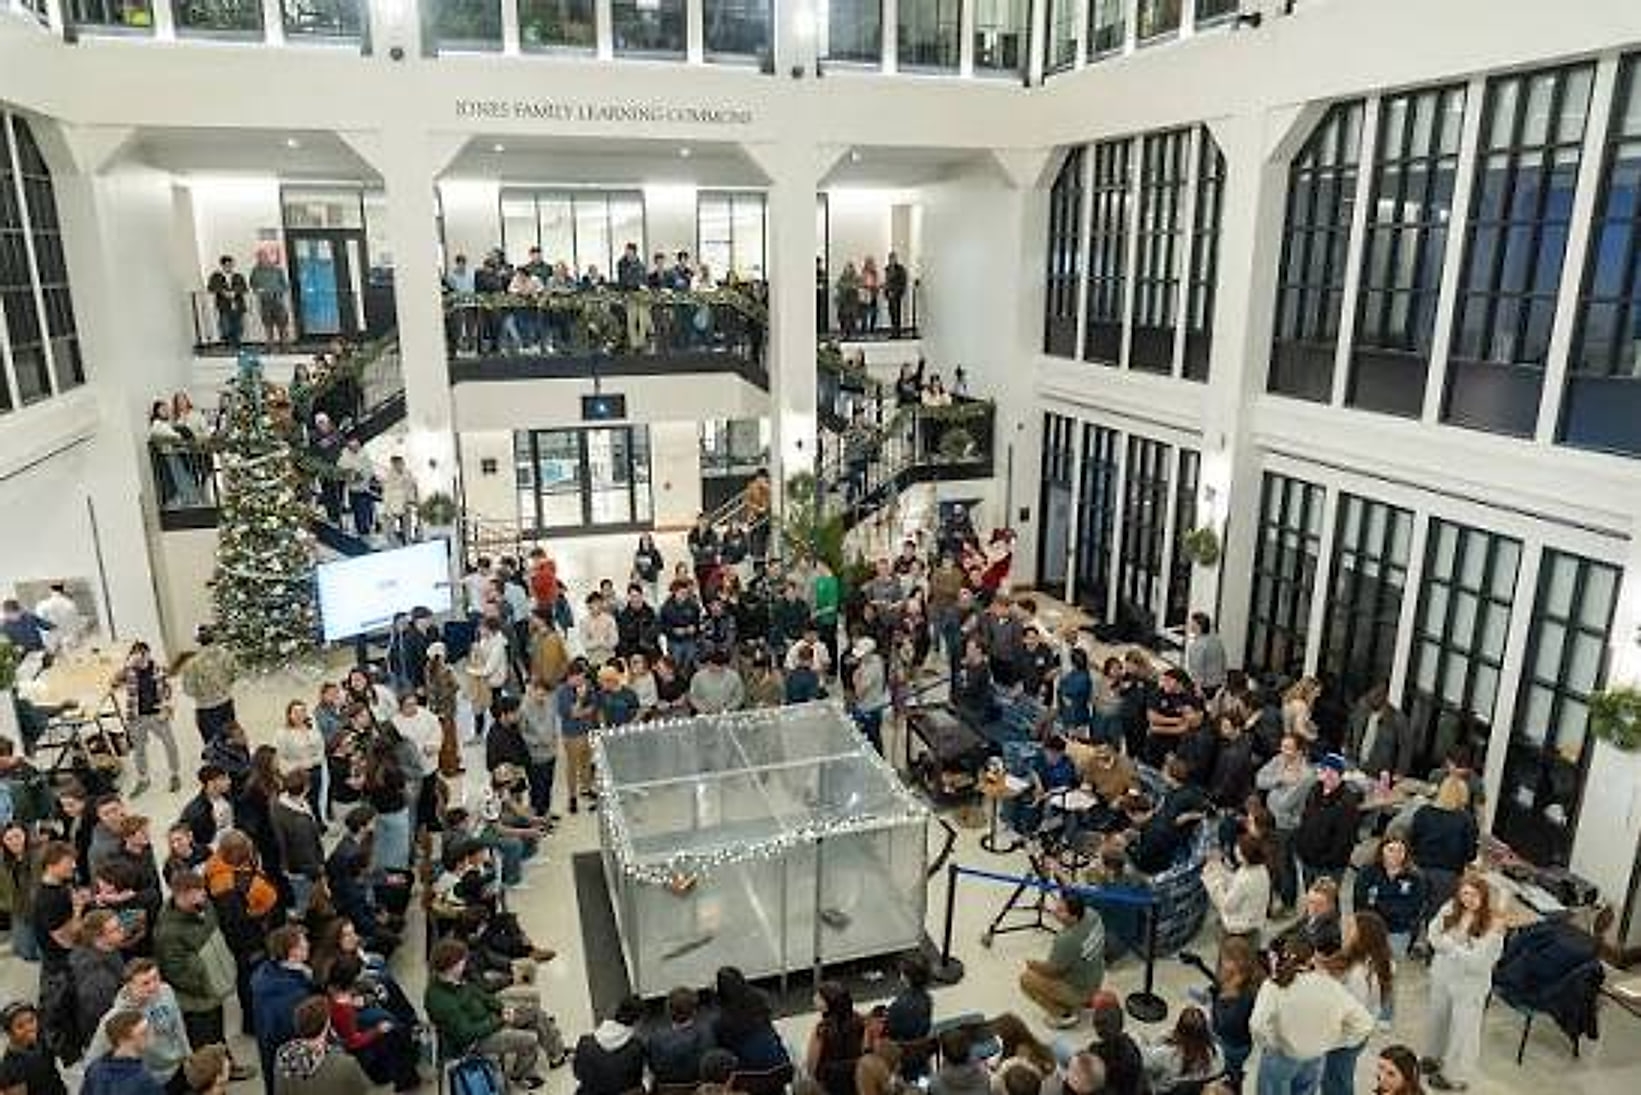
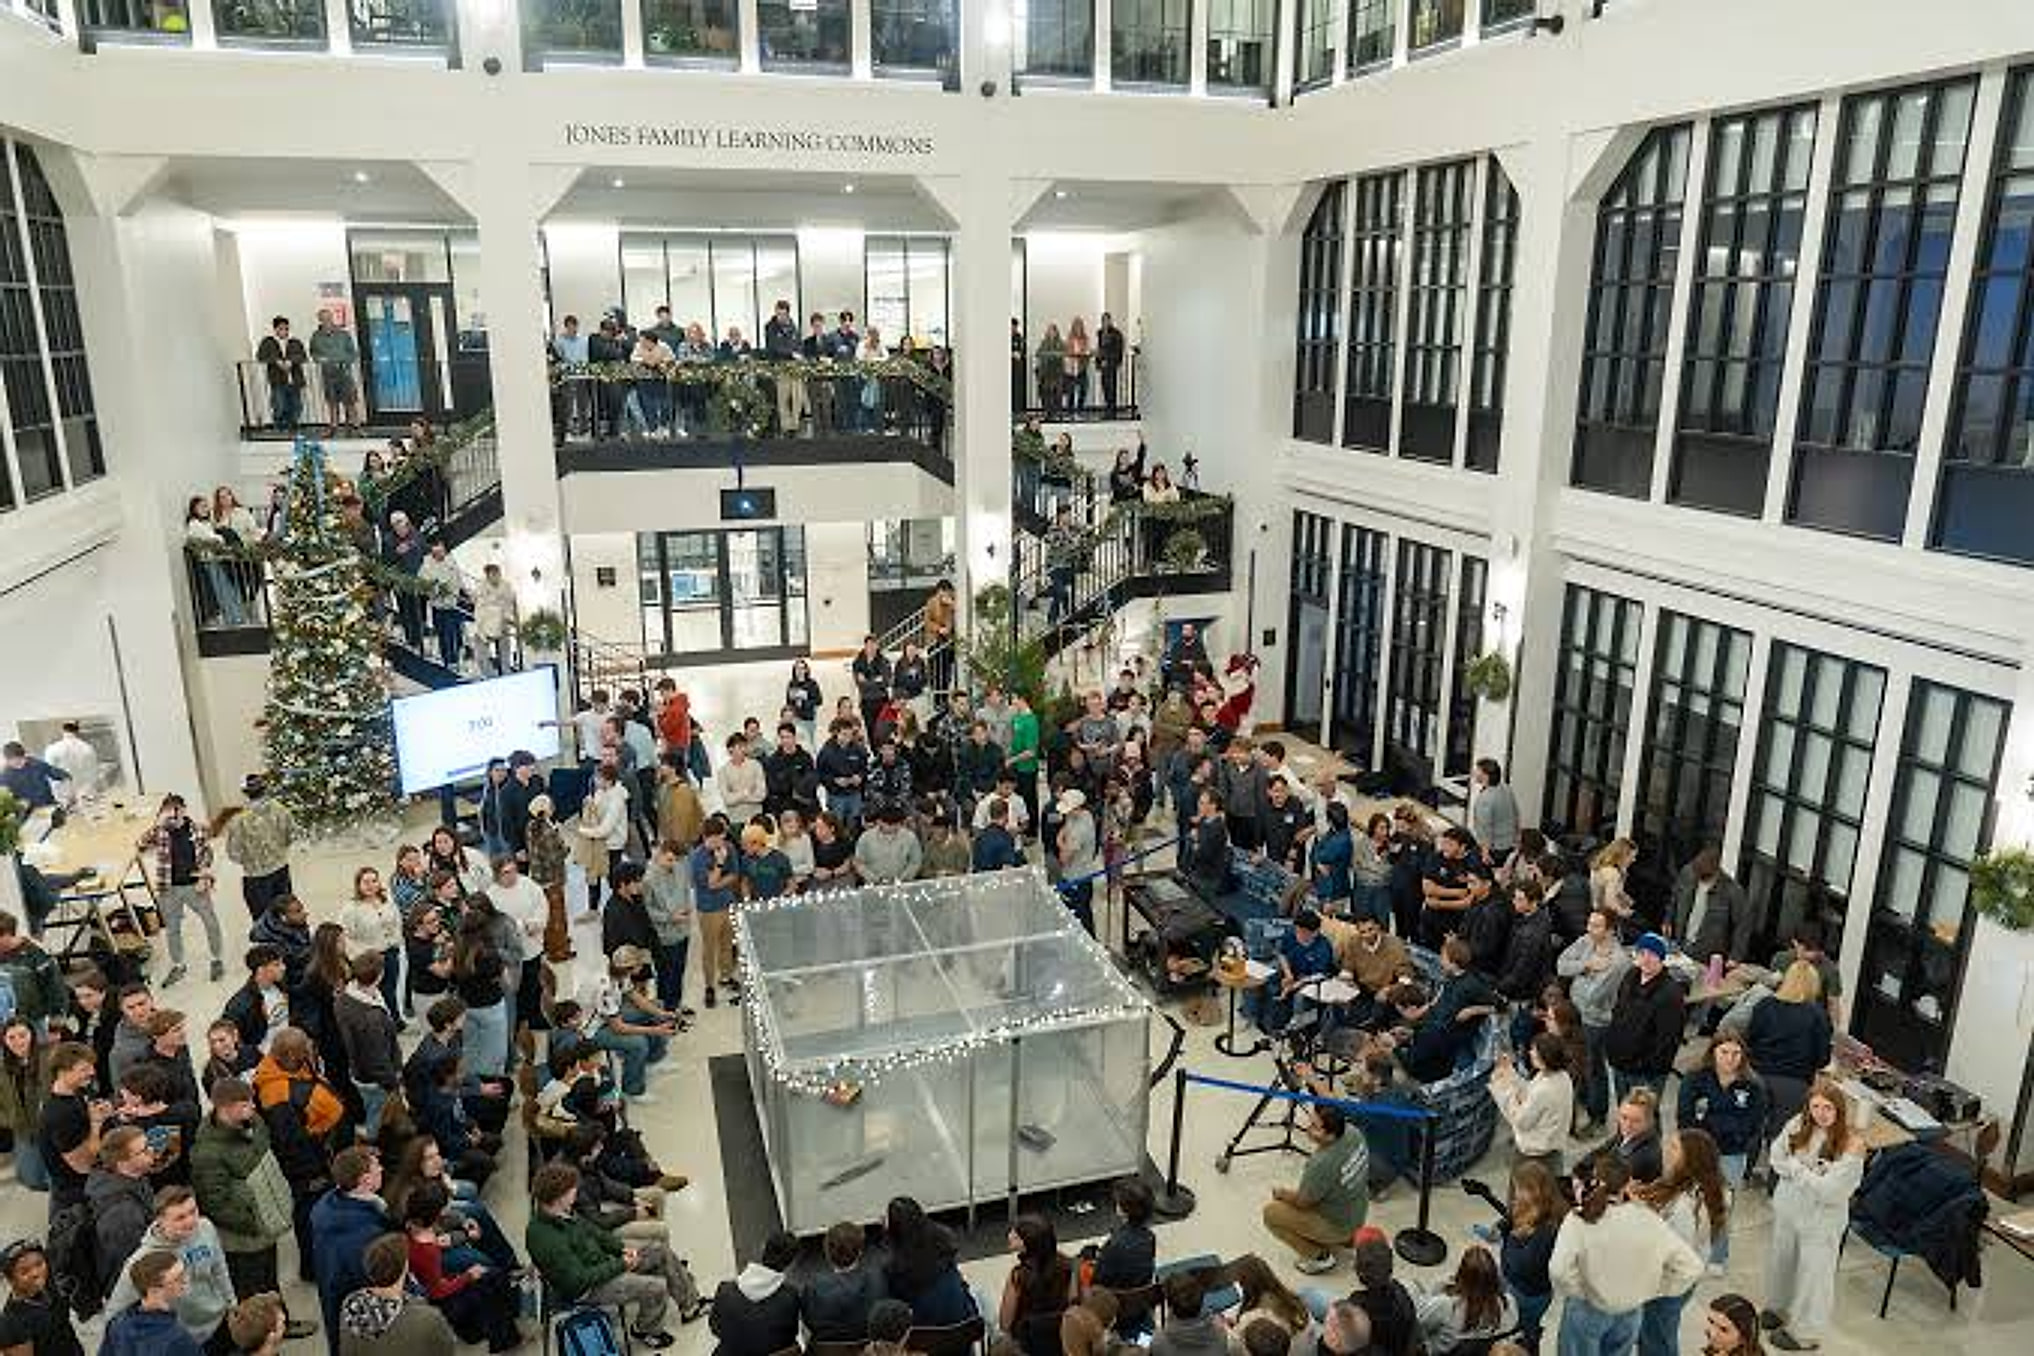
Beetlebot header: sharper arena photo from the larger source
Re-rendered from the 678x452 copy now in Media (vs. 547x365 before):
3x Lanczos upscale to 2034x1356 with light sharpening; cache-busted.

diff --git a/beetlebot.html b/beetlebot.html
@@ -51,7 +51,7 @@
   <!-- ============ PROJECT HERO ============ -->
   <section class="project-hero project-hero--arena">
     <div class="hero-bg" aria-hidden="true">
-      <img src="assets/images/beetlebot-arena.jpg" alt="" width="1641" height="1095">
+      <img src="assets/images/beetlebot-arena.jpg?v=2" alt="" width="2034" height="1356">
       <div class="hero-bg-scrim"></div>
     </div>
     <div class="project-hero-content">
